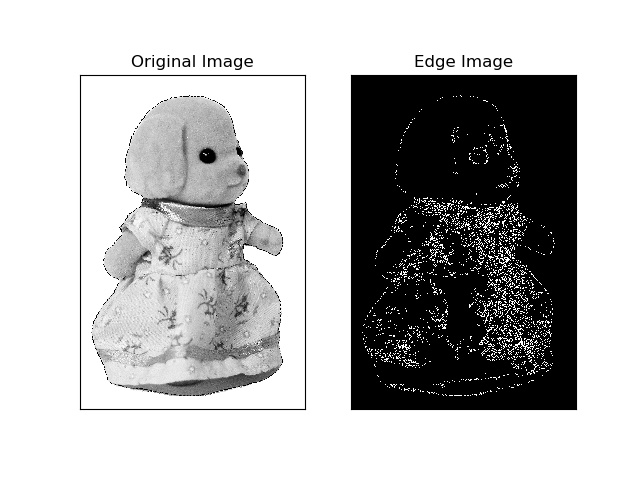
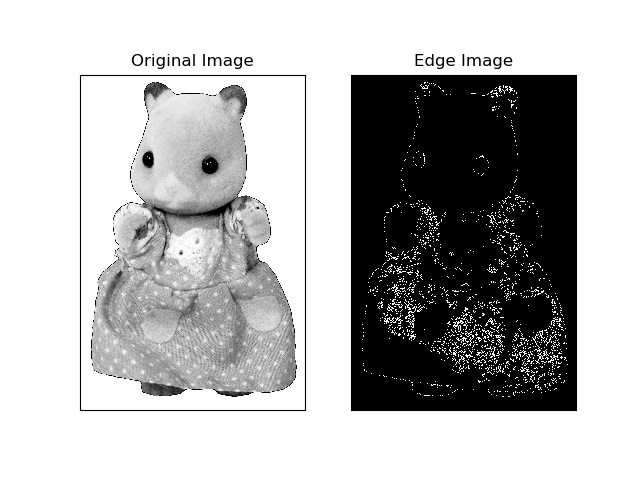
.

diff --git a/main.py b/main.py
@@ -26,10 +26,8 @@ if __name__ == "__main__":
     # person = Participant("aliza")
     # person.plot_participant_pictures()
 
-    Analyzer.canny_edge_detector1('clean_refs_pics/D02_stroke_2.jpg', save_pic=True, out='out1.jpg')
-
-
-    Analyzer.canny_edge_detector2('clean_refs_pics/D02_stroke_2.jpg', save_pic=True, out='out2.jpg')
+    Analyzer.canny_edge_detector1('clean_refs_pics/F01_stroke.jpg', save_pic=True, out='out3.jpg')
+    Analyzer.canny_edge_detector2('clean_refs_pics/F01_stroke.jpg', save_pic=True, out='out4.jpg')
 
 
 
